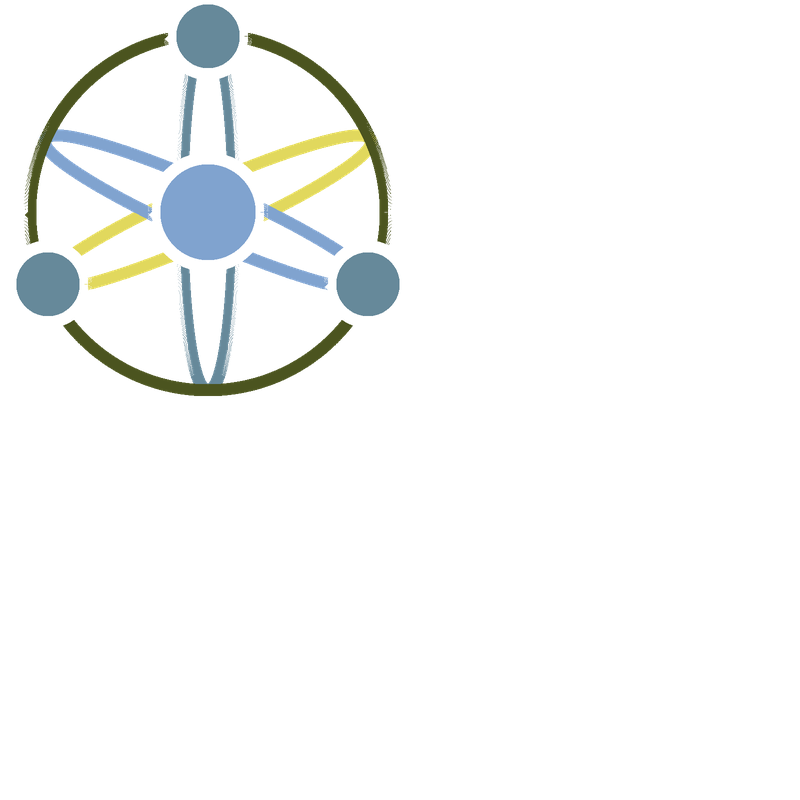
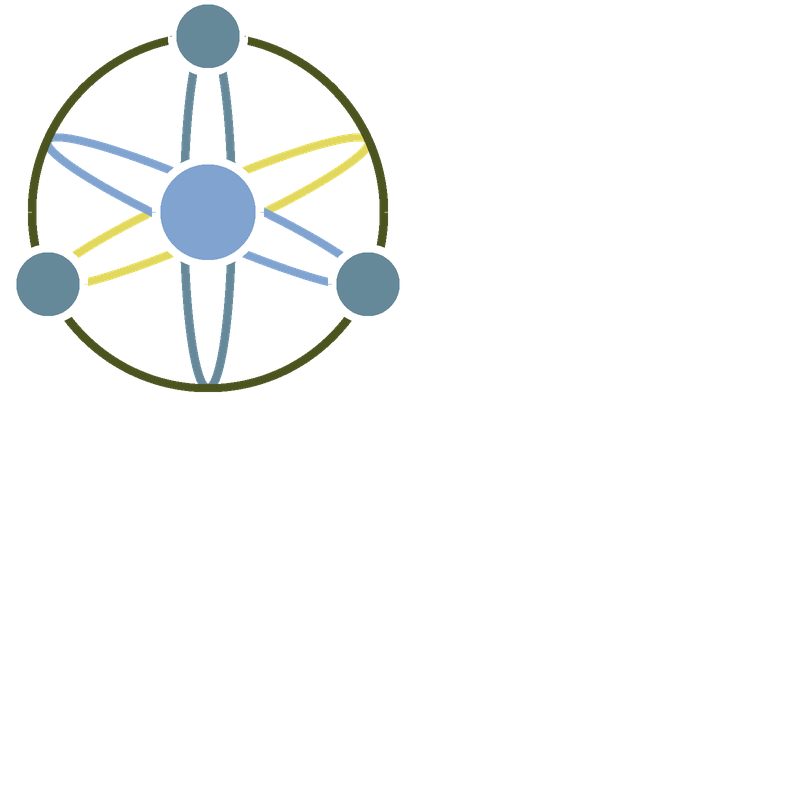
Updates

diff --git a/workbook/ch07/elements/vector/01/code/render.py b/workbook/ch07/elements/vector/01/code/render.py
@@ -287,10 +287,6 @@ class SimpleRasterizer(Rasterizer):
         return self.canvas
 
     def fill_path(self, path: Path, fill: FillProperties) -> None:
-        """
-        Optimized implementation of fill_path that combines the best of both existing implementations.
-        Uses NumPy vectorized operations for better performance.
-        """
         if not path.elements:
             return
 
@@ -351,69 +347,224 @@ class SimpleRasterizer(Rasterizer):
                         # Update the canvas
                         self.canvas[y, span] = blended
     
+
     def stroke_path(self, path: Path, stroke: StrokeProperties) -> None:
-        print(f"Executing stroke_path with {len(path.elements)} elements")
-        resolution = 0.5
+        """
+        Improved implementation of stroke_path that correctly handles line joins and caps.
+        """
+        resolution = min(0.3, stroke.width / 4)  # Adaptive resolution based on stroke width
         points = path.sample_points(resolution)
         if len(points) < 2:
             return
+        
         height, width = self.canvas.shape[:2]
-
+        half_width = stroke.width / 2
+        
+        # Helper functions for drawing caps and joins
         def draw_cap(point: Point, direction: Point, cap_style: LineCap):
-            x, y = int(point.x), int(point.y)
-            if not (0 <= x < width and 0 <= y < height):
-                return
-            radius = stroke.width / 2
             if cap_style == LineCap.BUTT:
                 return
-            elif cap_style == LineCap.ROUND:
-                self._draw_circle(x, y, radius, stroke.color)
+            
+            # Normalize direction
+            norm = math.sqrt(direction.x**2 + direction.y**2)
+            if norm < 1e-6:
+                return
+            direction_normalized = Point(direction.x / norm, direction.y / norm)
+            
+            if cap_style == LineCap.ROUND:
+                # Draw a half-circle cap
+                center = point
+                steps = max(8, int(half_width * 2))
+                start_angle = math.atan2(-direction_normalized.y, -direction_normalized.x)
+                end_angle = start_angle + math.pi
+                
+                prev_point = None
+                for i in range(steps + 1):
+                    angle = start_angle + (end_angle - start_angle) * (i / steps)
+                    cap_point = Point(
+                        center.x + half_width * math.cos(angle),
+                        center.y + half_width * math.sin(angle)
+                    )
+                    
+                    if prev_point:
+                        # Create a small triangle fan from center
+                        self._fill_polygon([center, prev_point, cap_point], stroke.color)
+                    prev_point = cap_point
+            
             elif cap_style == LineCap.SQUARE:
-                dx = direction.x * radius
-                dy = direction.y * radius
-                self._draw_line_segment(Point(x, y), Point(x + dx, y + dy), stroke)
-
+                # Draw a square cap (extend by half_width in direction)
+                extended = Point(
+                    point.x + direction_normalized.x * half_width,
+                    point.y + direction_normalized.y * half_width
+                )
+                
+                # Get perpendicular vector
+                perp = Point(-direction_normalized.y, direction_normalized.x)
+                
+                # Create square cap corners
+                corners = [
+                    Point(extended.x + perp.x * half_width, extended.y + perp.y * half_width),
+                    Point(extended.x - perp.x * half_width, extended.y - perp.y * half_width),
+                    Point(point.x - perp.x * half_width, point.y - perp.y * half_width),
+                    Point(point.x + perp.x * half_width, point.y + perp.y * half_width)
+                ]
+                
+                self._fill_polygon(corners, stroke.color)
+        
         def draw_join(p1: Point, p2: Point, p3: Point, join_style: LineJoin):
-            if join_style == LineJoin.ROUND:
-                self._draw_circle(int(p2.x), int(p2.y), stroke.width / 2, stroke.color)
+            # Calculate normalized direction vectors
+            v1 = Point(p2.x - p1.x, p2.y - p1.y)
+            v2 = Point(p3.x - p2.x, p3.y - p2.y)
+            
+            len1 = math.sqrt(v1.x**2 + v1.y**2)
+            len2 = math.sqrt(v2.x**2 + v2.y**2)
+            
+            if len1 < 1e-6 or len2 < 1e-6:
+                return
+            
+            v1 = Point(v1.x / len1, v1.y / len1)
+            v2 = Point(v2.x / len2, v2.y / len2)
+            
+            # Get perpendicular vectors
+            perp1 = Point(-v1.y, v1.x)
+            perp2 = Point(-v2.y, v2.x)
+            
+            # Calculate outer points of the segments
+            outer1 = Point(p2.x + perp1.x * half_width, p2.y + perp1.y * half_width)
+            inner1 = Point(p2.x - perp1.x * half_width, p2.y - perp1.y * half_width)
+            outer2 = Point(p2.x + perp2.x * half_width, p2.y + perp2.y * half_width)
+            inner2 = Point(p2.x - perp2.x * half_width, p2.y - perp2.y * half_width)
+            
+            # Determine if this is an inside or outside corner
+            dot_product = v1.x * v2.x + v1.y * v2.y
+            cross_product = v1.x * v2.y - v1.y * v2.x
+            is_outside_corner = cross_product < 0
+            
+            if join_style == LineJoin.ROUND and is_outside_corner:
+                # Draw a rounded join using a pie wedge
+                steps = max(8, int(half_width))
+                start_angle = math.atan2(perp1.y, perp1.x)
+                end_angle = math.atan2(perp2.y, perp2.x)
+                
+                # Ensure we go the short way around for the rounded join
+                if end_angle < start_angle:
+                    end_angle += 2 * math.pi
+                if end_angle - start_angle > math.pi:
+                    start_angle += 2 * math.pi
+                
+                # Create pie wedge points
+                pie_points = [p2]  # Center
+                for i in range(steps + 1):
+                    t = i / steps
+                    angle = start_angle * (1 - t) + end_angle * t
+                    pie_point = Point(
+                        p2.x + half_width * math.cos(angle),
+                        p2.y + half_width * math.sin(angle)
+                    )
+                    pie_points.append(pie_point)
+                
+                self._fill_polygon(pie_points, stroke.color)
+                
             elif join_style == LineJoin.BEVEL:
-                v1 = self._perpendicular_vector(p1, p2, stroke.width / 2)
-                v2 = self._perpendicular_vector(p2, p3, stroke.width / 2)
-                outer1 = Point(p2.x + v1.x, p2.y + v1.y)
-                outer2 = Point(p2.x + v2.x, p2.y + v2.y)
-                self._draw_line_segment(outer1, outer2, stroke)
-            elif join_style == LineJoin.MITER:
-                v1 = self._perpendicular_vector(p1, p2, stroke.width / 2)
-                v2 = self._perpendicular_vector(p2, p3, stroke.width / 2)
-                angle = self._angle_between_vectors(Point(p2.x - p1.x, p2.y - p1.y),
-                                                  Point(p3.x - p2.x, p3.y - p2.y))
-                miter_length = (stroke.width / 2) / math.sin(angle / 2) if angle != 0 else stroke.width / 2
-                if miter_length <= stroke.miter_limit * stroke.width:
-                    outer1 = Point(p2.x + v1.x, p2.y + v1.y)
-                    outer2 = Point(p2.x + v2.x, p2.y + v2.y)
-                    self._draw_line_segment(outer1, outer2, stroke)
+                # For bevel join, simply connect the outer points
+                if is_outside_corner:
+                    self._fill_polygon([p2, outer1, outer2], stroke.color)
                 else:
-                    draw_join(p1, p2, p3, LineJoin.BEVEL)
-
+                    self._fill_polygon([p2, inner1, inner2], stroke.color)
+                    
+            elif join_style == LineJoin.MITER:
+                if not is_outside_corner:
+                    # Inside corners can be handled like bevel
+                    self._fill_polygon([p2, inner1, inner2], stroke.color)
+                    return
+                
+                # Calculate miter point
+                # First, get the angle between the segments
+                angle = math.acos(max(-1.0, min(1.0, dot_product)))
+                
+                # Calculate miter length
+                miter_length = half_width / math.sin(angle / 2) if angle != 0 else half_width
+                
+                # Check miter limit
+                if miter_length > stroke.miter_limit * half_width:
+                    # Fallback to bevel join if miter is too long
+                    self._fill_polygon([p2, outer1, outer2], stroke.color)
+                    return
+                
+                # Calculate miter direction (bisector of the exterior angle)
+                bisector_x = (perp1.x + perp2.x) / 2
+                bisector_y = (perp1.y + perp2.y) / 2
+                bisector_len = math.sqrt(bisector_x**2 + bisector_y**2)
+                
+                if bisector_len < 1e-6:
+                    return
+                
+                # Normalize bisector
+                bisector_x /= bisector_len
+                bisector_y /= bisector_len
+                
+                # Calculate miter point
+                miter_point = Point(
+                    p2.x + bisector_x * miter_length,
+                    p2.y + bisector_y * miter_length
+                )
+                
+                # Create miter join
+                self._fill_polygon([p2, outer1, miter_point, outer2], stroke.color)
+        
+        # Draw line segments
         for i in range(len(points) - 1):
             p1 = points[i]
             p2 = points[i + 1]
-            self._draw_line_segment(p1, p2, stroke)
+            
+            # Skip degenerate segments
+            if p1.distance_to(p2) < 1e-6:
+                continue
+            
+            direction = Point(p2.x - p1.x, p2.y - p1.y)
+            length = math.sqrt(direction.x**2 + direction.y**2)
+            direction = Point(direction.x / length, direction.y / length)
+            
+            # Get perpendicular vector
+            perp = Point(-direction.y, direction.x)
+            
+            # Calculate the four corners of the segment rectangle
+            corners = [
+                Point(p1.x + perp.x * half_width, p1.y + perp.y * half_width),
+                Point(p1.x - perp.x * half_width, p1.y - perp.y * half_width),
+                Point(p2.x - perp.x * half_width, p2.y - perp.y * half_width),
+                Point(p2.x + perp.x * half_width, p2.y + perp.y * half_width)
+            ]
+            
+            # Fill the segment rectangle
+            self._fill_polygon(corners, stroke.color)
+            
+            # Draw join with next segment if there is one
             if i < len(points) - 2:
                 draw_join(p1, p2, points[i + 2], stroke.line_join)
+        
+        # Draw caps for open paths
+        if not path.closed and len(points) >= 2:
+            # Start cap
+            start_direction = Point(points[1].x - points[0].x, points[1].y - points[0].y)
+            start_length = math.sqrt(start_direction.x**2 + start_direction.y**2)
+            if start_length > 1e-6:
+                start_direction = Point(
+                    -start_direction.x / start_length, 
+                    -start_direction.y / start_length
+                )
+                draw_cap(points[0], start_direction, stroke.line_cap)
+            
+            # End cap
+            end_direction = Point(points[-1].x - points[-2].x, points[-1].y - points[-2].y)
+            end_length = math.sqrt(end_direction.x**2 + end_direction.y**2)
+            if end_length > 1e-6:
+                end_direction = Point(
+                    end_direction.x / end_length, 
+                    end_direction.y / end_length
+                )
+                draw_cap(points[-1], end_direction, stroke.line_cap)
 
-        if not path.closed:
-            direction = Point(points[1].x - points[0].x, points[1].y - points[0].y)
-            if direction.distance_to(Point(0, 0)) > 0:
-                direction = Point(direction.x / direction.distance_to(Point(0, 0)),
-                                direction.y / direction.distance_to(Point(0, 0)))
-                draw_cap(points[0], Point(-direction.x, -direction.y), stroke.line_cap)
-
-            direction = Point(points[-1].x - points[-2].x, points[-1].y - points[-2].y)
-            if direction.distance_to(Point(0, 0)) > 0:
-                direction = Point(direction.x / direction.distance_to(Point(0, 0)),
-                                direction.y / direction.distance_to(Point(0, 0)))
-                draw_cap(points[-1], direction, stroke.line_cap)
     
     def _draw_line_segment(self, p1: Point, p2: Point, stroke: StrokeProperties):
         v = self._perpendicular_vector(p1, p2, stroke.width / 2)
